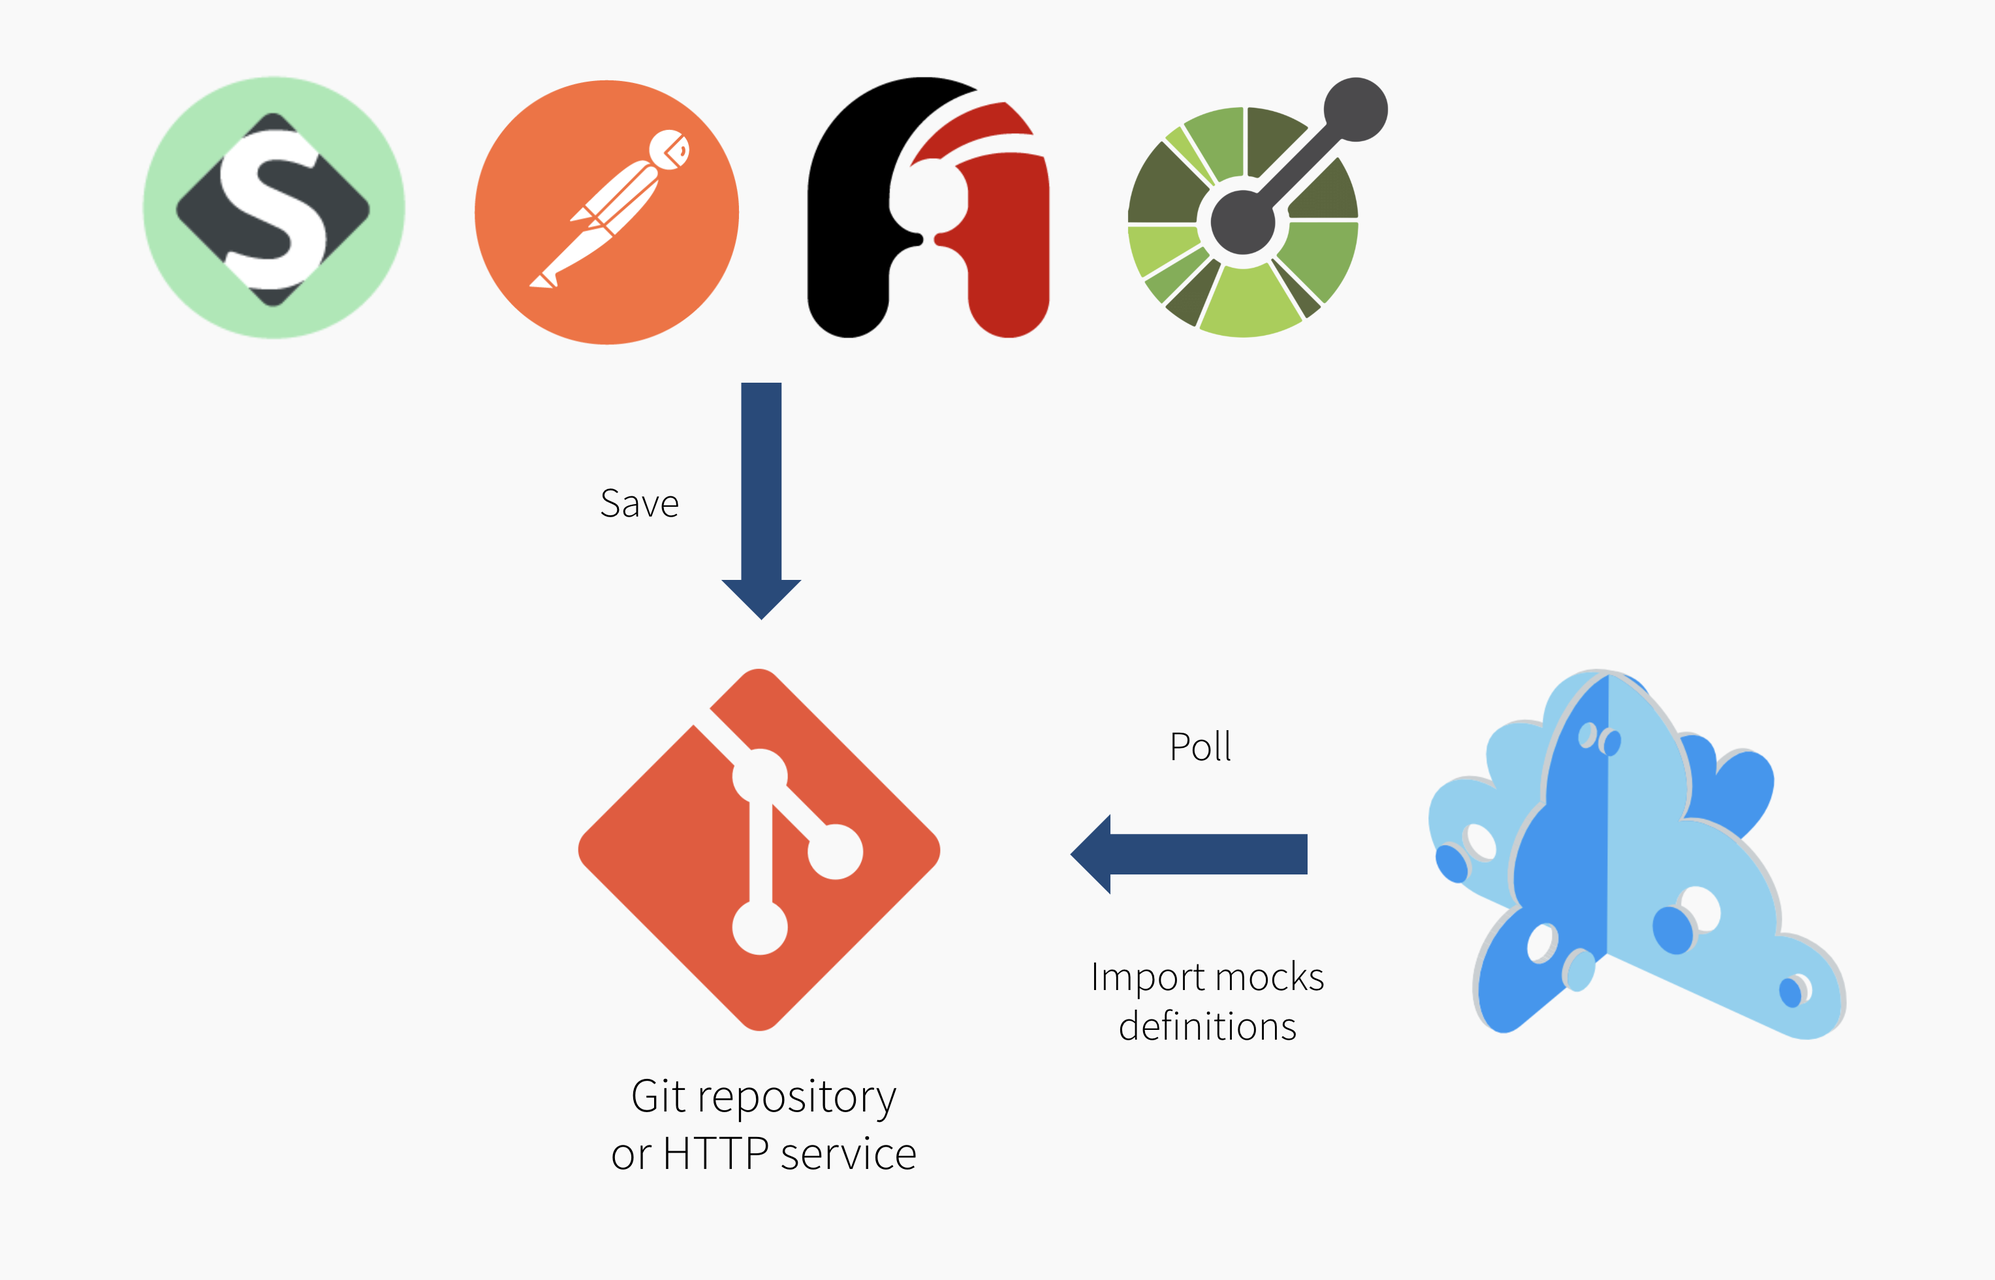
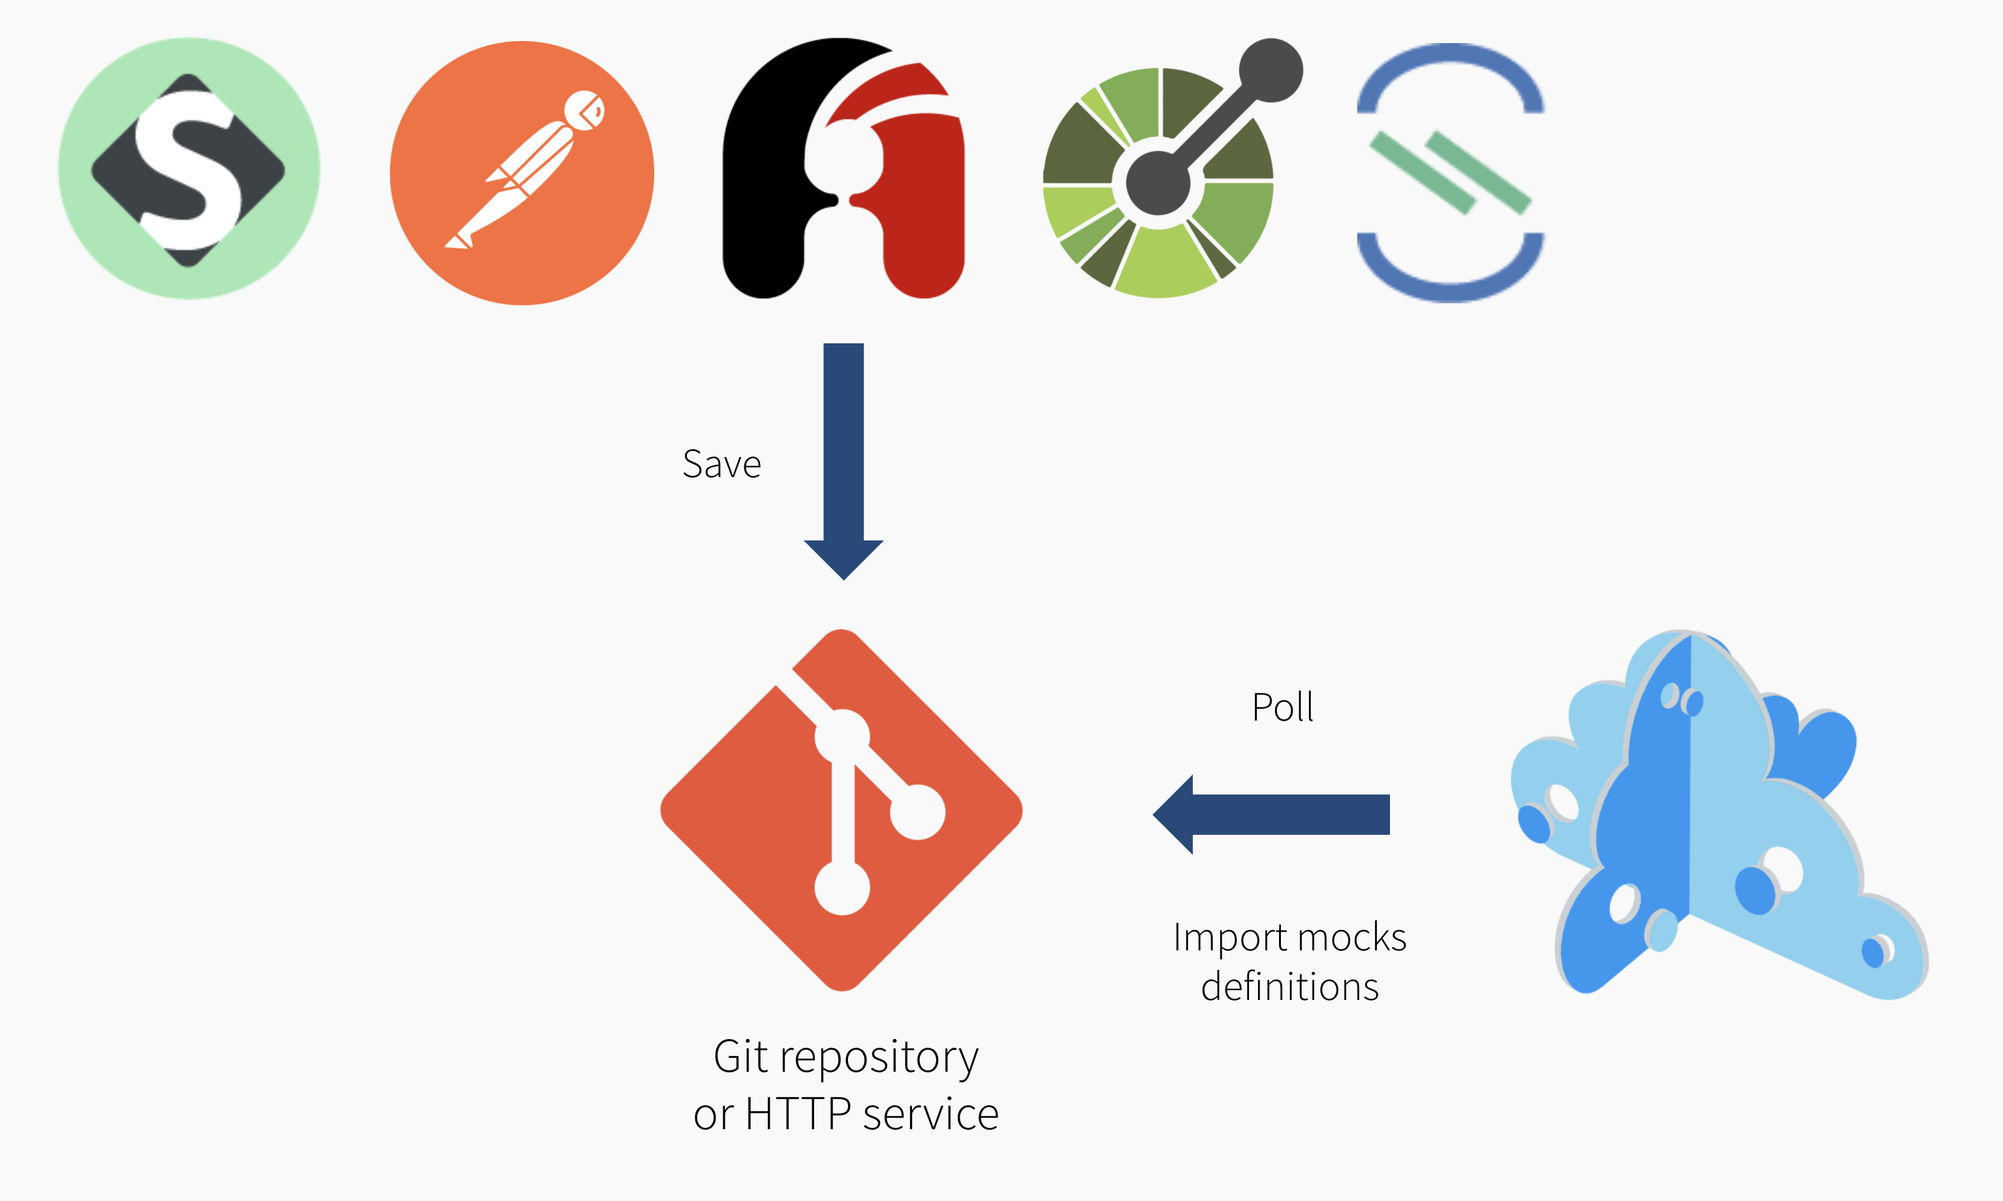
microcks/microcks#239 Update documentation for 1.0.0 release

Changed region(s): [[0.0311, 0.031, 0.7772, 0.4957], [0.2798, 0.5266, 0.9637, 0.9603], [0.5906, 0.5576, 0.6217, 0.5886]]

diff --git a/themes/microcks/layouts/index.html b/themes/microcks/layouts/index.html
@@ -4,6 +4,10 @@
 {{ end }}
 
 {{ define "main" }}
+  <section class="w-100 ph4 ph5-ns pv3 pv4-ns mid-gray bg-accent-color">
+    {{- partial "home-page-sections/highlight" . -}}
+  </section>
+
   <section class="w-100 ph4 ph5-ns pv4">
     {{- partial "home-page-sections/features-icons" . -}}
   </section>
@@ -17,7 +21,7 @@
   <section class="w-100 ph4 ph5-ns pv4 pv6-ns mid-gray bg-accent-color-dark">
     {{- partial "home-page-sections/tweets" . -}}
   </section>
-  
+
   <section class="w-100 ph4 ph5-ns pt4 pb5 mid-gray bg-primary-color-light bb bt b--light-gray ">
     {{- partial "home-page-sections/open-source-involvement" . -}}
   </section>

diff --git a/themes/microcks/layouts/partials/hero.html b/themes/microcks/layouts/partials/hero.html
@@ -1,7 +1,7 @@
 <header class="home-header-bg ph4 tc" role="banner">
   
   <div class="mr20p-ns pb4-xs">
-    <img class="microcks-mocks-img" style="margin-right: -15px;" src="/images/microcks-mocks.png" alt="Microcks mocks">
+    <img class="microcks-mocks-img" style="margin-right: -15px;" src="/images/microcks-mocks-new.png" alt="Microcks mocks">
   </div>
   <span class="absolute pr4 mt7-m mt7-l right-0 top-0 dn-xs">
     <a class="f4 link tc v-mid bg-accent-color-light white ph4 pv2 br3 fem" href="/documentation/getting-started">GETTING STARTED</a>

diff --git a/themes/microcks/layouts/partials/home-page-sections/highlight.html b/themes/microcks/layouts/partials/home-page-sections/highlight.html
@@ -1,0 +1,10 @@
+<div class="flex-ns flex-wrap center mw9">
+  <div class="pv2 f2 w-70 w-70-ns center tc tc-ns">
+    🚀 1.0.0 just launched and supports &nbsp; <img src="./images/asyncapi.png" style="height: 1.2em; vertical-align: text-bottom"/>
+  </div>
+</div>
+<div class="flex-ns flex-wrap center mw9">
+  <div class="f4 center">
+    Learn more about this exciting new feature <a href="" class="home-link">here {{ partial "svg/link-ext.svg" (dict "fill" "#333" "size" "10") }}</a>.
+  </div>
+</div>

diff --git a/themes/microcks/assets/output/css/app.css b/themes/microcks/assets/output/css/app.css
@@ -5154,7 +5154,8 @@ code, .code, pre code, .highlight pre  {
   float: right;
   position: relative;
   top: 2em;
-  width: 360px;
+  width: 380px;
+  /*width: 360px;/*
   max-width: 100%;
   /*margin-right: 20%;*/
   z-index: 99;

diff --git a/themes/microcks/assets/css/main.css b/themes/microcks/assets/css/main.css
@@ -61,7 +61,8 @@
   float: right;
   position: relative;
   top: 2em;
-  width: 360px;
+  width: 380px;
+  /*width: 360px;/*
   max-width: 100%;
   /*margin-right: 20%;*/
   z-index: 99;

diff --git a/content/documentation/using/asyncapi.md b/content/documentation/using/asyncapi.md
@@ -1,0 +1,113 @@
+---
+draft: false
+title: "AsyncAPI usage for Microcks"
+date: 2020-08-01
+publishdate: 2020-08-05
+lastmod: 2020-08-05
+menu:
+  docs:
+    parent: using
+    name: AsyncAPI usage for Microcks
+    weight: 25
+toc: true
+weight: 30 #rem
+---
+
+## Overview
+
+### Introduction
+
+AsyncAPI is an open source initiative that seeks to improve the current state of Event-Driven Architectures (EDA). Its long-term goal is to make working with EDA’s as easy as it is to work with REST APIs. That goes from documentation to code generation, from discovery to event management. Most of the processes you apply to your REST APIs nowadays would be applicable to your event-driven/asynchronous APIs too. So Microcks has support for AsyncAPI too ;-) !
+
+Starting with Microcks version `1.0.0`, Microcks is now able to import AsyncAPI definitions for enriching the API catalogs with `Event` typed APIs. When set up accordingly, it is also able to mock the API by publishing samples messages on a dedicated message broker destination.
+
+### Bindings
+
+AsyncAPI specification decorellates the concern of message description (through payload and headers schemas) from the concern of servers and protocol bindings. A same API may have different bindings allowing to specify protocol specific issues like queue or topic naming, serialization format and so on.
+
+> At the time of `1.0.0` release, Microcks only supports the `KAFKA` binding. When setting up Microcks, you may have the choice deploying a new Kafka broker as part of the Microcks installation or reusing an existing broker.
+
+For each version of an API managed by Microcks, it will create appropriate destination for **operations** in mixing specification elements, protocol binding specifics and versionning issues. Destination managed by Microcks are then referenced within the API details page.
+
+### Conventions
+
+With AsyncAPI [Messages Objects](https://github.com/asyncapi/asyncapi/blob/master/versions/2.0.0/asyncapi.md#messageObject) you have the ability to define `examples` with your AsyncAPI specification document. For now (in the `2.0.0` release of the specification), `examples` is simply a `[Map[ string , any]]` but we ought to propose the here-after conventions as the formal specification (see this [Feature request](https://github.com/asyncapi/asyncapi/issues/329) if you want to contribute to conversation).
+
+So basically, we propose to describe `examples` using the following guidelines. An `example` may have:
+* A short name that will be used as the key within the `examples` array,
+* An optional `summary` to provide more informations on the use-case mapping of the sample,
+* A mandatory `payload` that should be compliant with the defined schema for Message payload and may be expressed directly in YAML or by embedding JSON representation,
+* An optional `headers` that should be compliant with the aggregated schema for both Message-level headers and Trait-level headers.
+
+## Illustration
+
+We will illustrate how Microcks is using OpenAPI specification through a `User signed-up API` sample that is inspired yb one of AsyncAPI tutorial. The specification file in YAML format can be found [here](https://raw.githubusercontent.com/microcks/microcks/master/samples/UserSignedUpAPI-asyncapi.yml). This is a single `SUBSCRIBE` operation API that defines the format of events that are published when a User signed-up an application.
+
+### Specifying samples messages
+
+Sample messages are defined within your specification document, simply using the `examples` attribute like marked below: 
+
+```yaml
+channels:
+  user/signedup:
+    description: The topic on which user signed up events may be consumed
+    subscribe:
+      summary: Receive informations about user signed up
+      operationId: receivedUserSIgnedUp
+      message:
+        description: An event describing that a user just signed up.
+        traits:
+          - $ref: '#/components/messageTraits/commonHeaders'
+        payload:
+          [...]
+        examples: # <= Where we'll define sample messages for this operation
+```
+
+Examples will be an array of example objects, starting with a **key** that Microcks will simply use as the example name. They may include a `summary` attribute to provide a short description.
+
+#### Payload 
+
+Payload is expressed into the mandatory `payload` attribute, directly in YAML or by embedding JSON. In our illustration, we will define below 2 examples with straightforward summary:
+
+```yaml
+examples:
+  - laurent:
+      summary: Example for Laurent user
+      payload: |-
+        {"id": "{{randomString(32)}}", "sendAt": "{{now()}}", "fullName": "Laurent Broudoux", "email": "laurent@microcks.io", "age": 41}
+  - john:
+      summary: Example for John Doe user
+      payload:
+        id: '{{randomString(32)}}'
+        sendAt: '{{now()}}'
+        fullName: John Doe
+        email: john@microcks.io
+        age: 36
+```
+
+> You can see here that we're using specific `{{ }}` notation that involves the generation of dynamic content. You can find description of the `now()` and `randomString()` functions into [Function Expressions](./advanced/templates/#function-expressions) documentation.
+
+#### Headers
+
+Headers are expressed into the optional `headers` attribute, directly in YAML or by embedding JSON. In our illustration, we will define below 2 examples using both methods:
+
+```yaml
+examples:
+  - laurent:
+      [...]
+      headers: |-
+        {"my-app-header": 23}
+  - john:
+      [...]
+      headers:
+        my-app-header: 24
+```
+
+## Importing AsyncAPI specification
+
+
+When you're happy with your API design and example definitions just put the result YAML or JSON file into your favorite Source Configuration Management tool, grab the URL of the file corresponding to the branch you want to use and add it as a regular Job import into Microcks. On import, Microcks should detect that it's an AsyncAPI specification file and choose the correct importer.
+
+Using the above `User signed-up API` example, you should get the following results:
+
+![asyncapi-mocks](/images/asyncapi-mocks.png)

diff --git a/content/documentation/getting-started.md b/content/documentation/getting-started.md
@@ -63,13 +63,15 @@ As you may have guessed, <b>API | Services</b> is about browsing your [micro]-se
 
 ### Loading samples
 
-We provide different samples that illustrate different ways of creating service definitions. The 2 firsts are definition files realized using SoapUI and demonstrating SOAP and REST services. The third one is a definition file built using Postman and demonstrating the famous Petstore API. Using the <b>Importers</b> entry point from home screen or top navigation bar, use the Importers management page to add 3 new jobs. For each, you will be asked a name and a repository URL. Use the informations below:
+We provide different samples that illustrate different ways of creating service definitions. The 2 firsts are definition files realized using SoapUI and demonstrating SOAP and REST services. The third one is a definition file built using Postman and demonstrating the famous Petstore API. The fourth one is an OpenAPI v3 specification file and present the advantages of holding both the contract specification and the examples. The Last one is an AsyncAPI v2 specification file - [AsyncAPI](https://www.asyncapi.com/) being a new specification format dedicated to asychronous and event-oriented APIs. Using the <b>Importers</b> entry point from home screen or left navigation bar, use the Importers management page to add 5 new jobs. For each, you will be asked a name and a repository URL. Use the informations below:
 
 * Hello SOAP Service : `https://raw.githubusercontent.com/microcks/microcks/master/samples/HelloService-soapui-project.xml`
 * Hello REST API : `https://raw.githubusercontent.com/microcks/microcks/master/samples/HelloAPI-soapui-project.xml`
 * Petstore API : `https://raw.githubusercontent.com/microcks/microcks/master/samples/PetstoreAPI-collection.json`
+* Pastry API : `https://raw.githubusercontent.com/microcks/microcks/master/samples/APIPastry-openapi.yaml`
+* User signed-up API : `https://raw.githubusercontent.com/microcks/microcks/master/samples/UserSignedUpAPI-asyncapi.yml`
 				
-Now that you have created your Jobs, you have to <code>Activate</code> them (this make them eligible to a periodically check) and to <code>Force import</code> them (this make a forced refresh right now). After some moments and a page refresh, you should see the status of Jobs changed like in screenshot below:
+Now that you have created your Jobs, they are automatically <code>Activated</code> (this make them eligible to a periodically check) and to <code>Imported</code> (this make a forced refresh right now). After some moments and a page refresh, you should see the status of Jobs changed like in screenshot below:
 			
 <img src="/images/sample-jobs.png" class="img-responsive"/>
 
@@ -88,7 +90,7 @@ Now choosing the <b>Petstore API</b> REST API, you'll be able to access details,
 Using this URL, you can call the exposed mock for <b>Petstore API</b> using the following curl command:
 
 ```
-$ curl "http://microcks-microcks.192.168.99.100.nip.io/rest/Petstore+API/1.0/pet/findByStatus?status=available&user_key=70f735676ec46351c6699c4bb767878a"
+$ curl "http://microcks.192.168.64.7.nip.io/rest/Petstore+API/1.0/pet/findByStatus?status=available&user_key=70f735676ec46351c6699c4bb767878a"
 ```
 
 And you should receive the following response:
@@ -104,7 +106,7 @@ Ta Dam !
 Now that you have basic information on how to setup and use Microcks, you can go further with:
 
 * Understanding how Microcks [compare to alternatives](/documentation/using/alternatives),
-* Creating your definition files using [SoapUI](/documentation/using/soapui) or [Postman](/documentation/using/postman),
+* Creating your definition files using [OpenAPI](/documentation/using/openapi), [AsyncAPI](/documentation/using/asyncapi), [SoapUI](/documentation/using/soapui) or [Postman](/documentation/using/postman),
 * Using [exposed mocks](/documentation/using/mocks) and using variables,
 * Executing your [tests on endpoints](/documentation/using/tests) where your services and API are deployed,
 * Using [advanced features]((/documentation/using/advanced)) of Microcks and admin stuffs.

diff --git a/content/documentation/using/openapi.md b/content/documentation/using/openapi.md
@@ -3,7 +3,7 @@ draft: false
 title: "OpenAPI usage for Microcks"
 date: 2019-09-01
 publishdate: 2019-09-01
-lastmod: 2019-09-02
+lastmod: 2020-08-04
 menu:
   docs:
     parent: using
@@ -19,11 +19,11 @@ weight: 30 #rem
       
 As [OpenAPI](https://www.openapis.org/) emerges as an Open standard and provides way of defining [Example Objects](https://github.com/OAI/OpenAPI-Specification/blob/master/versions/3.0.1.md#exampleObject), Microcks has recently evolved to provide direct support for OpenAPI 3.0.
       
-With this new feature, you'll now be able to directly import your OpenAPI specification as a Job within Microcks. Then, it directly discover service definition as well as request/response samples defined as OpenAPI examples. If your specification embeds a JSON or OpenAPI schema definition for your custom datatypes, Microcks will use it for validating received response payload during [tests](../tests"> when using the `OPEN_API_SCHEMA` strategy.
+With this new feature, you'll now be able to directly import your OpenAPI specification as a Job within Microcks. Then, it directly discover service definition as well as request/response samples defined as OpenAPI examples. If your specification embeds a JSON or OpenAPI schema definition for your custom datatypes, Microcks will use it for validating received response payload during [tests](../tests) when using the `OPEN_API_SCHEMA` strategy.
       
 ### Conventions
       
-With OpenAPI [Example Objects](https://github.com/OAI/OpenAPI-Specification/blob/master/versions/3.0.1.md#exampleObject), you are no able to define named example fragments within your OpenAPI specification in YAML or JSON format. In order to produce working mocks, Microcks will need complete request/response samples. So to gather and aggregate fragments into something coherent, the importer will take care of collecting fragments having the same name and re-assemble them into comprehensive request/response pair.
+With OpenAPI [Example Objects](https://github.com/OAI/OpenAPI-Specification/blob/master/versions/3.0.1.md#exampleObject), you are now able to define named example fragments within your OpenAPI specification in YAML or JSON format. In order to produce working mocks, Microcks will need complete request/response samples. So to gather and aggregate fragments into something coherent, the importer will take care of collecting fragments having the same name and re-assemble them into comprehensive request/response pair.
       
 ## Illustration
       

diff --git a/content/documentation/using/importers.md b/content/documentation/using/importers.md
@@ -3,7 +3,7 @@ draft: false
 title: "Importing Services & APIs"
 date: 2020-02-26
 publishdate: 2020-02-26
-lastmod: 2020-02-26
+lastmod: 2020-08-04
 menu:
   docs:
     parent: using
@@ -31,6 +31,8 @@ We provide built-in parsers and importers for the following formats:
 * [Postman collections](https://learning.postman.com/docs/postman/collections/data-formats/) files with v1.0 or v2.x file format. See our [documentation](../postman/) on some conventions you should follow for this collection structure,
 * [Apicurio Studio](https://apicurio-studio.readme.io/docs/integrate-microcks-for-mocking-your-api) direct integration when working on OpenAPI 3.x API specifications,
 * [OpenAPI v3.x](http://spec.openapis.org/oas/v3.0.3) files whether using the YAML of JSON format. See our [documentation](../openapi/) on some conventions you should follow for this specification,
+* [AsyncAPI v2.x](https://www.asyncapi.com/docs/specifications/2.0.0) files whether using the YAML or JSON format. See our [documentation](../asyncapi/) on some conventions you should follow for this specification, 
+
 
 > People very often ask *"Why the Swagger format - aka OpenApi 2.0 - isn't supported by Microcks?"*. This is because Swagger is incomplete for specifying mocks as it does not allow full specifications of examples. Sure, the Swagger spec allows you to illustrate responses with samples but it does not allow you to do so with request or request parameters (whether in path, query or headers). And if some tools - like Swagger UI - seems to compose sample requests, they're only doing this using schema information with random generated values...
 

diff --git a/content/news/_index.md b/content/news/_index.md
@@ -8,6 +8,17 @@ categories: [releases]
 
 ### Microcks core
 
+#### 1.0.0 on 07 Aug 2020
+
+We are very pleased to announce the Microcks release **1.0.0**!
+
+* The major announcement is the support of [AsyncAPI](https://asyncapi.com) for Event-driven APIs,
+* A lot of security enhancements including major components versions bump, better Keycloak reuse and container images systematic scanning. 
+
+Check out our [Medium release notes](https://medium.com/microcksio/microcks-0-9-0-release-ae43c9a0061)!
+
+You can also check [GitHub milestone](https://github.com/microcks/microcks/milestone/10?closed=1) for the full list of closed issues.
+
 #### 0.9.2 on 19 May 2020
 
 Version **0.9.2** is a minor bug-fix release embedding a fix for a regression that occurs since **0.9.0** release - and fix was expressly needed by one of our community members ;-)
@@ -26,7 +37,7 @@ Please check [GitHub milestone](https://github.com/microcks/microcks/milestone/9
 
 #### 0.9.0 on 20 Apr 2020
 
-We are delighted pleased to announce the Microcks release **0.9.0** that introduces a tremendous amount of enhancements and new features.
+We are delighted to announce the Microcks release **0.9.0** that introduces a tremendous amount of enhancements and new features.
 
 Big thanks to our growing community for all the work done, the raised issues and the collected feedback during the last 5 months to make it possible.
 

diff --git a/content/documentation/using/advanced/templates.md b/content/documentation/using/advanced/templates.md
@@ -176,6 +176,14 @@ now(dd/MM/yyyy HH:mm:ss) // 11/02/2020 13:48:12
 now(dd/MM/yyyy, 1M) // 11/03/2020
 ```
 
+### UUID generator
+
+The `uuid()`function allows to simply generate a UUID compliant with RFC 4122 (see https://www.cryptosys.net/pki/uuid-rfc4122.html).
+
+```js
+uuid() // 3F897E85-62CE-4B2C-A957-FCF0CCE649FD
+```
+
 ### Random Integer generator
 
 The `randomInt()` function allows to generate a random integer.
